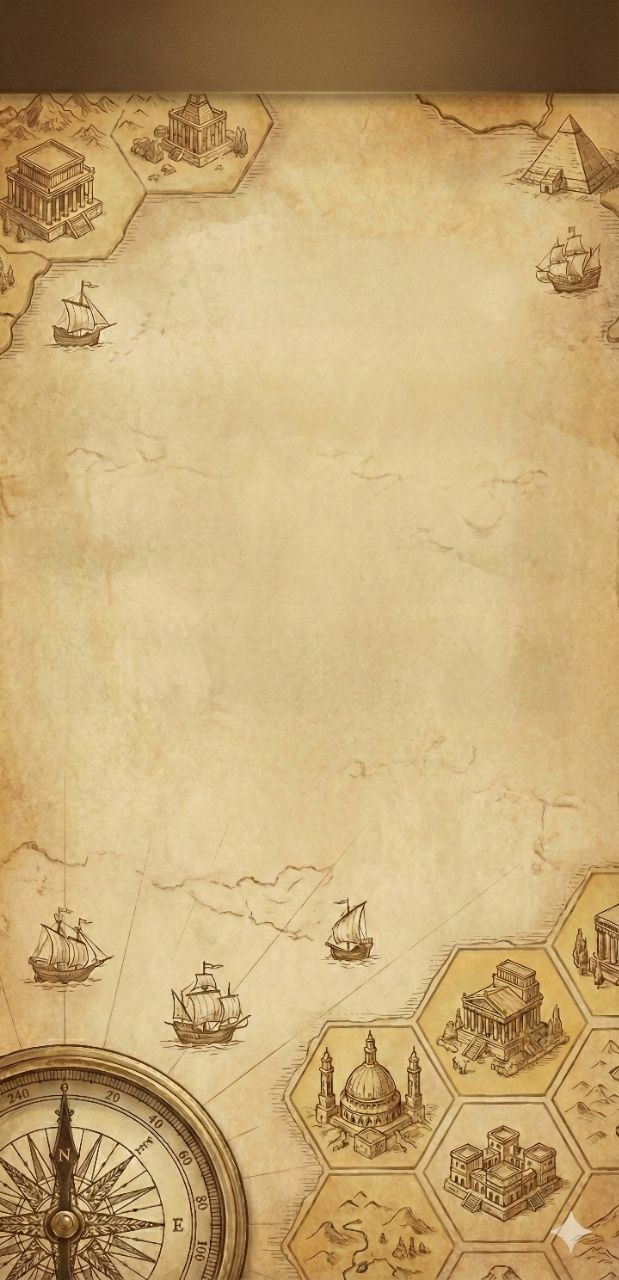
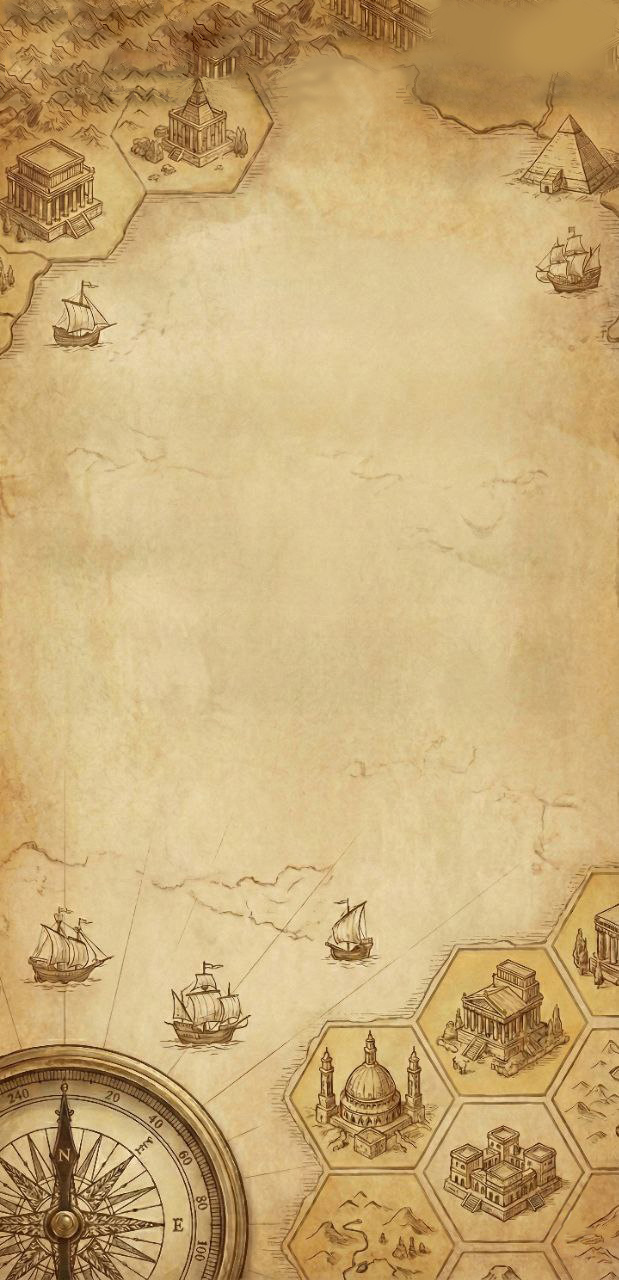
Refine top bar and results page visuals

Changed region(s): [[0.0, 0.0, 1.0, 0.0938], [0.8901, 0.9375, 0.9515, 0.9688]]

diff --git a/src/app/results/page.tsx b/src/app/results/page.tsx
@@ -50,6 +50,18 @@ function ResultsContent() {
     submitResults();
   }, [scores]);
 
+  const fallbackDownload = (blob: Blob) => {
+    const url = URL.createObjectURL(blob);
+    const a = document.createElement('a');
+    a.href = url;
+    a.download = 'ideology-result.png';
+    document.body.appendChild(a);
+    a.click();
+    document.body.removeChild(a);
+    URL.revokeObjectURL(url);
+    alert('截图已保存到你的设备，可以手动分享。');
+  };
+
   const handleShare = async () => {
     if (!captureRef.current) return;
     setIsSharing(true);
@@ -71,9 +83,7 @@ function ResultsContent() {
             files: [file],
           });
         } catch (error) {
-          if ((error as Error).name !== 'AbortError') {
-            fallbackDownload(blob);
-          }
+          if ((error as Error).name !== 'AbortError') fallbackDownload(blob);
         }
       } else {
         fallbackDownload(blob);
@@ -83,18 +93,6 @@ function ResultsContent() {
     } finally {
       setIsSharing(false);
     }
-  };
-
-  const fallbackDownload = (blob: Blob) => {
-    const url = URL.createObjectURL(blob);
-    const a = document.createElement('a');
-    a.href = url;
-    a.download = 'ideology-result.png';
-    document.body.appendChild(a);
-    a.click();
-    document.body.removeChild(a);
-    URL.revokeObjectURL(url);
-    alert('截图已保存到你的设备，可以手动分享。');
   };
 
   const archetypeAssets: Record<string, string> = {
@@ -125,7 +123,7 @@ function ResultsContent() {
         <div className="flex flex-col items-center text-center">
           <div
             className="relative w-[220px] mt-8 overflow-hidden"
-            style={{ height: '150px' }}
+            style={{ height: '200px' }}
           >
             <Image
               src={imagePath}
@@ -167,15 +165,7 @@ function ResultsContent() {
         transition={{ delay: 0.12 }}
         className="relative z-10 w-full max-w-[356px] mx-auto mt-6 px-1"
       >
-        <div className="flex items-center justify-center gap-3 mb-2">
-          <div className="w-10 h-px bg-gradient-to-r from-transparent to-[#8b6c45]/60"></div>
-          <p className="text-[11px] tracking-[0.28em] text-[#6f5138] font-serif font-bold">
-            维度分布
-          </p>
-          <div className="w-10 h-px bg-gradient-to-l from-transparent to-[#8b6c45]/60"></div>
-        </div>
-
-        <div className="w-full flex items-center justify-center mb-3">
+        <div className="w-full flex items-center justify-center mb-2">
           <ResultRadarChart scores={scores} />
         </div>
 

diff --git a/src/components/TopBar.tsx b/src/components/TopBar.tsx
@@ -1,16 +1,30 @@
+import Image from 'next/image';
+
 interface TopBarProps {
   className?: string;
 }
 
 export default function TopBar({ className = '' }: TopBarProps) {
   return (
-    <div className={`w-full h-12 md:h-16 flex items-center justify-center relative z-20 mb-8 ${className}`}>
-      <h2
-        className="text-xl md:text-2xl font-serif font-black tracking-[0.2em] text-[#f2ecd9] drop-shadow-lg"
-        style={{ textShadow: '0 2px 4px rgba(0,0,0,0.8), 0 0 10px rgba(0,0,0,0.4)' }}
-      >
-        2025年度键政话题
-      </h2>
+    <div className={`relative z-20 mb-8 flex w-full justify-center ${className}`}>
+      <div className="relative h-12 md:h-16 w-[calc(100%+2.5rem)] md:w-[calc(100%+3rem)] overflow-hidden">
+        <Image
+          src="/topBar.png"
+          alt=""
+          fill
+          priority
+          sizes="100vw"
+          className="object-cover"
+        />
+        <div className="relative z-10 flex h-full w-full items-center justify-center px-4">
+          <h2
+            className="m-0 w-full text-center text-xl md:text-2xl font-serif font-black tracking-[0.12em] text-[#f2ecd9] drop-shadow-lg"
+            style={{ textShadow: '0 2px 4px rgba(0,0,0,0.8), 0 0 10px rgba(0,0,0,0.4)' }}
+          >
+            2025年度键政话题
+          </h2>
+        </div>
+      </div>
     </div>
   );
 }

diff --git a/src/app/page.tsx b/src/app/page.tsx
@@ -13,8 +13,11 @@ export default function Home() {
 
         <div className="relative text-center">
           <h1
-            className="text-[2.7rem] md:text-[4.3rem] font-serif font-black tracking-[0.08em] text-transparent bg-clip-text bg-gradient-to-b from-[#fff8eb] via-[#f2e3be] to-[#b6905d]"
-            style={{ WebkitTextStroke: '1.5px rgba(73, 48, 24, 0.72)', filter: 'drop-shadow(0px 5px 4px rgba(0,0,0,0.32))' }}
+            className="text-[2.7rem] md:text-[4.3rem] font-serif font-black tracking-[0.04em] text-transparent bg-clip-text bg-gradient-to-b from-[#fbf4e4] via-[#e8d5ad] to-[#8e6b42]"
+            style={{
+              WebkitTextStroke: '0.2px rgba(78, 52, 27, 0.7)',
+              textShadow: '0 -2px 0 rgba(255,245,221,1), 0 4px 6px rgba(64,41,20,1)',
+            }}
           >
             你的身份是?
           </h1>
